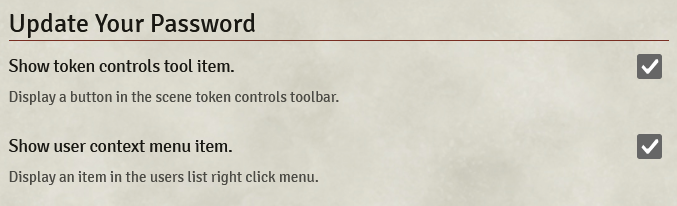
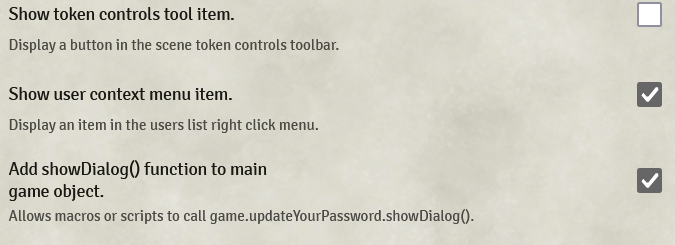
Version 2.1.0
Add feature to expose the `updatePasswordDialog()` function for macros and scripting.

Closes #2

diff --git a/README.md b/README.md
@@ -14,6 +14,8 @@ Settings are available to toggle the visibility of both choices.
 
 ![Settings menu](resources/readme-settings.png)
 
+A third setting has been added to expose the primary `updatePasswordDialog()` function to macros and scripts. It is false by default but can be enabled by the game master. It will be exposed on the primary game object at `game.updateYourPassword.showDialog()` and work exactly the same way as the user invoked version.
+
 A password must be typed in twice to confirm before applying. If the two entered passwords do not match, an error will be shown and the password will not be changed.
 
 - It will also prevent you from setting a blank password in this manner as the tabletop does not seem to react to updating the password to nothing.

diff --git a/CHANGELOG.md b/CHANGELOG.md
@@ -5,6 +5,14 @@ All notable changes to this project will be documented in this file.
 The format is based on [Keep a Changelog](https://keepachangelog.com/en/1.0.0/),
 and this project adheres to [Semantic Versioning](https://semver.org/spec/v2.0.0.html).
 
+## [2.1.0] - 2024-07-06
+
+### Added
+
+- Settings menu item to allow exposing the `updatePasswordDialog()` function to macros and scripts
+  - Defaults to false
+  - Exposed at `game.updateYourPassword.showDialog()`
+
 ## [2.0.0] - 2024-06-13
 
 ### Added
